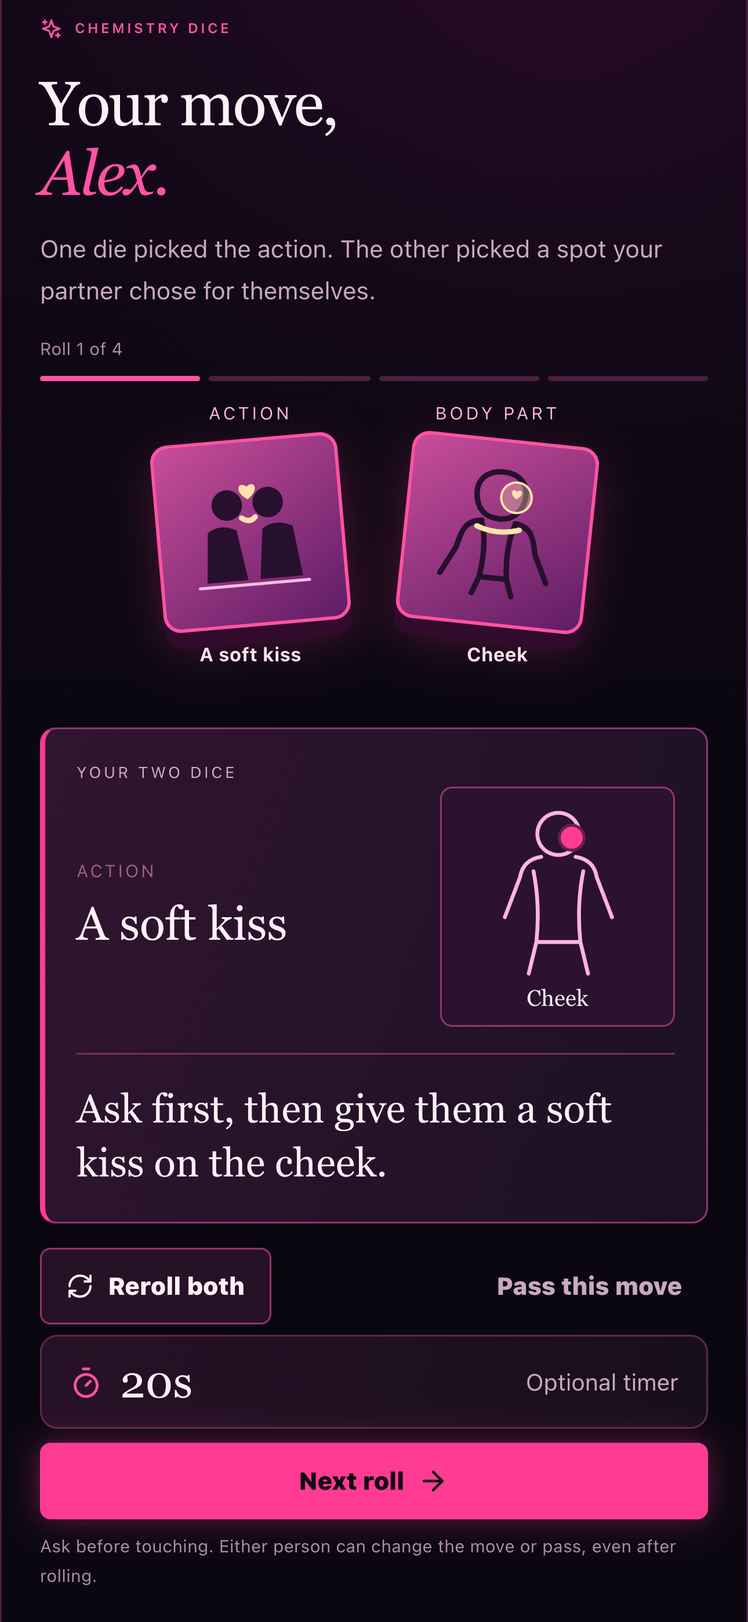
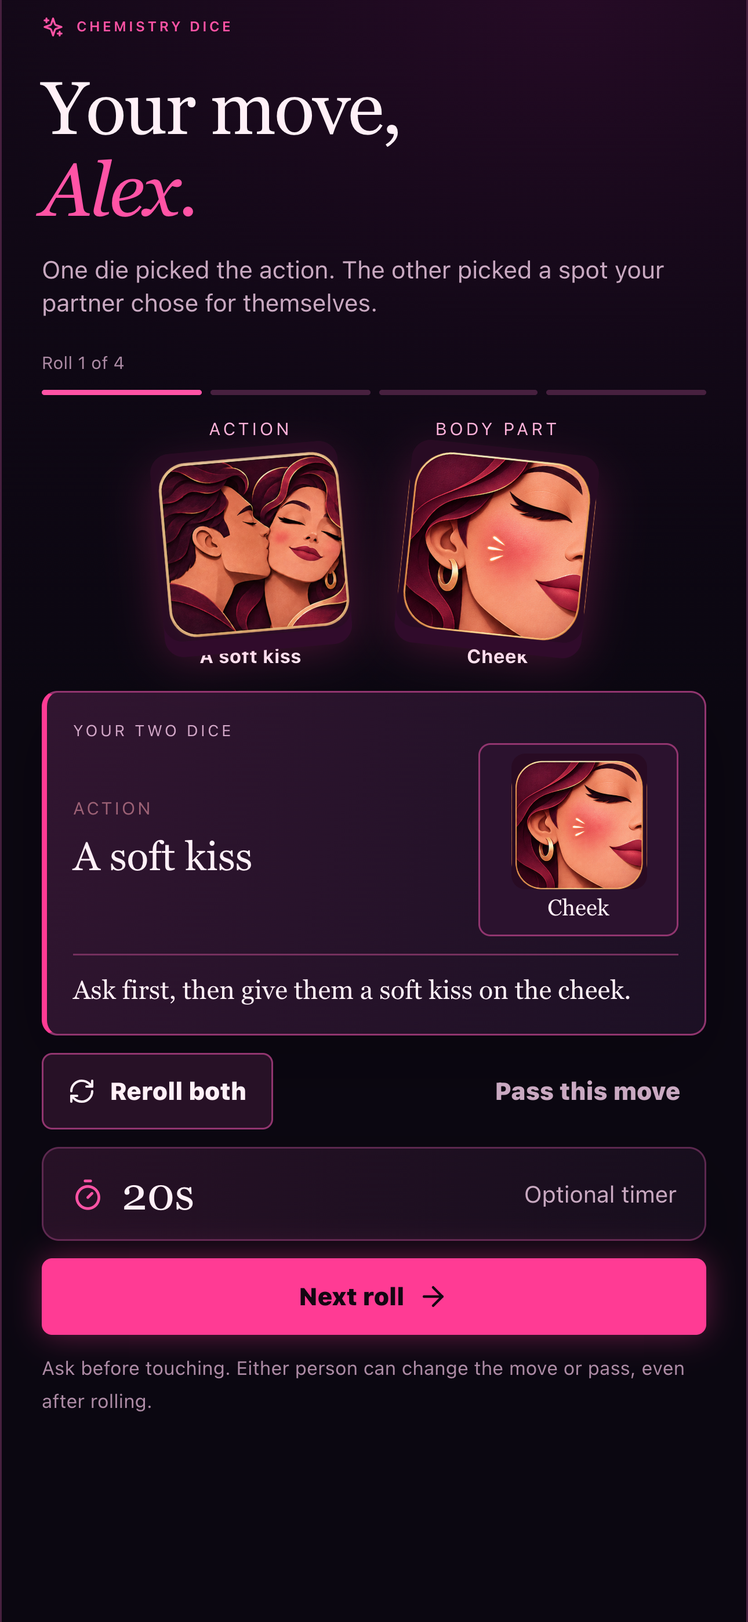
Add Midnight Flirt art to Chemistry Dice

diff --git a/prototypes/date-night/App.tsx b/prototypes/date-night/App.tsx
@@ -55,11 +55,12 @@ function Home({ onChoose }: { onChoose: (mode: Mode) => void }) {
   </div>;
 }
 
-function Setup({ mode, names, vibe, stage, onStart }: { mode: Mode; names: Names; vibe: Vibe; stage: Stage; onStart: (names: Names, vibe: Vibe, stage: Stage) => void }) {
+function Setup({ mode, names, vibe, stage, firstPortraitRole, onStart }: { mode: Mode; names: Names; vibe: Vibe; stage: Stage; firstPortraitRole: 'man' | 'woman'; onStart: (names: Names, vibe: Vibe, stage: Stage, firstPortraitRole: 'man' | 'woman') => void }) {
   const { locale, tr } = useMiniI18n();
   const [draftNames, setDraftNames] = useState<Names>(names);
   const [draftVibe, setDraftVibe] = useState<Vibe>(mode === 'after-hours' ? 'flirty' : vibe);
   const [draftStage, setDraftStage] = useState(stage);
+  const [draftFirstPortraitRole, setDraftFirstPortraitRole] = useState(firstPortraitRole);
   const catalogGame = gameCatalog.find(game => game.mode === mode);
   useScreenFocus(`setup-${mode}`);
   const notes: Record<Mode, [string, string, string]> = {
@@ -79,11 +80,12 @@ function Setup({ mode, names, vibe, stage, onStart }: { mode: Mode; names: Names
       event.preventDefault();
       const clean = draftNames.map((name, i) => name.trim() || `Player ${i + 1}`) as Names;
       if (clean[0].toLowerCase() === clean[1].toLowerCase()) { clean[0] += ' (1)'; clean[1] += ' (2)'; }
-      playMiniVoice(locale, 0, 'mini-start');
-      onStart(clean, draftVibe, draftStage);
+      playMiniVoice(locale, mode === 'heart-dice' && draftFirstPortraitRole === 'woman' ? 1 : 0, 'mini-start');
+      onStart(clean, draftVibe, draftStage, draftFirstPortraitRole);
     }}>
       <h2>{tr('Make yourselves comfortable.')}</h2><p className="muted">{tr('Nicknames welcome. Names are optional.')}</p>
       <div className="names-row">{[0, 1].map(index => <label key={index} htmlFor={`player-${index}`}>{tr(`Player ${index + 1}`)}<input id={`player-${index}`} maxLength={24} autoComplete="off" placeholder={index === 0 ? tr('e.g. Alex') : tr('e.g. Sam')} value={draftNames[index].startsWith('Player ') ? '' : draftNames[index]} onChange={event => setDraftNames(prev => index === 0 ? [event.target.value, prev[1]] : [prev[0], event.target.value])} /></label>)}</div>
+      {mode === 'heart-dice' && <fieldset><legend>{tr('Who is Player 1 in the illustrations?')}</legend><div className="portrait-role-options">{(['man', 'woman'] as const).map(role => <label key={role}><input type="radio" name="first-portrait-role" checked={draftFirstPortraitRole === role} onChange={() => setDraftFirstPortraitRole(role)} /><span>{tr(role === 'man' ? 'Man' : 'Woman')}</span></label>)}</div><p className="form-footnote">{tr('The kiss and body-part pictures follow your choice.')}</p></fieldset>}
       {mode !== 'heart-dice' && <fieldset><legend>{tr('Where are you two right now?')}</legend><div className="stage-options">{(['new', 'together', 'married'] as const).map(value => <label className={`stage-choice ${draftStage === value ? 'selected' : ''}`} key={value}><input type="radio" name="stage" value={value} checked={draftStage === value} onChange={() => setDraftStage(value)} /><span><strong>{tr(stageLabels[value])}</strong><small>{tr(stageNotes[value])}</small></span></label>)}</div></fieldset>}
       {mode !== 'sketch-date' && mode !== 'date-mystery' && <fieldset><legend>{tr('What’s the mood?')}</legend><div className="vibe-options">{(['playful', 'flirty'] as const).map(value => <label className={`vibe-choice ${draftVibe === value ? 'selected' : ''}`} key={value}><input type="radio" name="vibe" value={value} checked={draftVibe === value} onChange={() => setDraftVibe(value)} /><span>{value === 'playful' ? <Sparkles size={18} /> : <Heart size={18} />}<strong>{tr(value === 'playful' ? 'Playful' : 'Flirty')}</strong><small>{tr(value === 'playful' ? 'Easy laughs & good stories' : 'Banter & a little chemistry')}</small></span></label>)}</div></fieldset>}
       <div className="comfort-note"><Heart size={17} /><p>{tr('Pick a mood you both like. You can pass on anything, for any reason.')}</p></div>
@@ -196,6 +198,7 @@ export default function App() {
   const [names, setNames] = useState<Names>(['Player 1', 'Player 2']);
   const [vibe, setVibe] = useState<Vibe>('playful');
   const [stage, setStage] = useState<Stage>('new');
+  const [firstPortraitRole, setFirstPortraitRole] = useState<'man' | 'woman'>('man');
   const [session, setSession] = useState(0);
   const [showExit, setShowExit] = useState(false);
   const exitRef = useRef<HTMLDialogElement>(null);
@@ -206,5 +209,5 @@ export default function App() {
   function leave() { if (ready) setShowExit(true); else home(); }
   function replay(swap = false) { if (swap) setNames(prev => [prev[1], prev[0]]); setSession(prev => prev + 1); }
   useEffect(() => { if (showExit) exitRef.current?.showModal(); else exitRef.current?.close(); }, [showExit]);
-  return <MiniLocaleProvider locale={locale}><div className="app-shell" data-locale={locale} onClickCapture={event => { if (event.target instanceof Element && event.target.closest("button")) void playMiniCue("tap"); }}><a className="skip-link" href="#main">{tr("Skip to game")}</a><header className="site-header"><button className="brand" onClick={leave} aria-label={tr("Date Night Games home")}><span className={activeCatalogGame ? "brand-game-mark" : "brand-mark"}>{activeCatalogGame ? <CoupleGameEmblem mode={activeCatalogGame.mode} className="brand-game-emblem" /> : <Heart size={20} />}</span><span>Couple Flight<small>{tr("DATE NIGHT GAMES")}</small></span></button><div className="header-actions"><AmbientSound copy={{ soundOn: tr("Turn off date-night music"), soundOff: tr("Turn on date-night music") }} className="mini-ambient-toggle" /><label className="locale-control"><span className="sr-only">{tr("Language")}</span><select aria-label={tr("Language")} value={locale} onChange={event => changeLocale(event.target.value as MiniLocale)}><option value="en">EN</option><option value="zh">中文</option><option value="es">ES</option></select></label>{mode ? <button className="exit-link" onClick={leave} aria-label={tr(ready ? "Leave game" : "All games")}><ArrowLeft size={16} /><span>{tr(ready ? 'Leave game' : 'All games')}</span></button> : <a className="exit-link" href={flightBoardUrl} aria-label={tr("Back to Flight Chess")}><ArrowLeft size={16} /><span>{tr("Board")}</span></a>}</div></header>{mode && createPortal(<button type="button" className="mini-quick-back" onClick={leave} aria-label={tr(ready ? "Leave game" : "All games")}><ArrowLeft size={20} /><span>{tr(ready ? "Leave game" : "All games")}</span></button>, document.body)}<main id="main">{!mode ? <Home onChoose={value => { setMode(value); setReady(false); }} /> : !ready ? <Setup mode={mode} names={names} vibe={vibe} stage={stage} onStart={(newNames, newVibe, newStage) => { setNames(newNames); setVibe(newVibe); setStage(newStage); setReady(true); setSession(prev => prev + 1); }} /> : mode === 'first-date' ? <FirstDate key={session} names={names} vibe={vibe} stage={stage} onHome={home} onReplay={() => replay(true)} /> : mode === 'mission' ? <SecretMission key={session} names={names} vibe={vibe} stage={stage} seen={seenMissions.current} onHome={home} onReplay={() => replay()} /> : mode === 'double-yes' ? <DoubleYes key={session} names={names} vibe={vibe} stage={stage} seen={seenIdeas.current} onHome={home} onReplay={() => replay()} /> : mode === 'heart-dice' ? <ChemistryDice key={session} names={names} vibe={vibe} onHome={home} onReplay={() => replay()} /> : mode === 'read-my-mind' ? <ReadMyMind key={session} names={names} vibe={vibe} stage={stage} onHome={home} onReplay={() => replay()} /> : mode === 'wish-auction' ? <WishAuction key={session} names={names} vibe={vibe} stage={stage} onHome={home} onReplay={() => replay()} /> : mode === 'date-mystery' ? <DateMystery key={session} names={names} vibe={vibe} stage={stage} onHome={home} onReplay={() => replay()} /> : mode === 'sketch-date' ? <SketchDate key={session} names={names} stage={stage} onHome={home} onReplay={() => replay()} /> : <AfterHours key={session} names={names} vibe={vibe} stage={stage} onHome={home} onReplay={() => replay()} />}</main><footer className="site-footer"><span><Ticket size={14} /> {tr("A little time, just for you two.")}</span><span>{tr("Go at your own pace.")}</span></footer><dialog ref={exitRef} onCancel={() => setShowExit(false)} onClick={event => { if (event.target === event.currentTarget) setShowExit(false); }}><div className="exit-dialog"><Eyebrow>{tr("Pause for a moment")}</Eyebrow><h2>{tr("Call it a night?")}</h2><p>{tr("This round will be cleared. Your answers aren’t saved.")}</p><div className="action-stack"><Button onClick={home}>{tr("Leave this round")}</Button><Button variant="secondary" onClick={() => setShowExit(false)} autoFocus>{tr("Keep playing")}</Button></div></div></dialog></div></MiniLocaleProvider>;
+  return <MiniLocaleProvider locale={locale}><div className="app-shell" data-locale={locale} onClickCapture={event => { if (event.target instanceof Element && event.target.closest("button")) void playMiniCue("tap"); }}><a className="skip-link" href="#main">{tr("Skip to game")}</a><header className="site-header"><button className="brand" onClick={leave} aria-label={tr("Date Night Games home")}><span className={activeCatalogGame ? "brand-game-mark" : "brand-mark"}>{activeCatalogGame ? <CoupleGameEmblem mode={activeCatalogGame.mode} className="brand-game-emblem" /> : <Heart size={20} />}</span><span>Couple Flight<small>{tr("DATE NIGHT GAMES")}</small></span></button><div className="header-actions"><AmbientSound copy={{ soundOn: tr("Turn off date-night music"), soundOff: tr("Turn on date-night music") }} className="mini-ambient-toggle" /><label className="locale-control"><span className="sr-only">{tr("Language")}</span><select aria-label={tr("Language")} value={locale} onChange={event => changeLocale(event.target.value as MiniLocale)}><option value="en">EN</option><option value="zh">中文</option><option value="es">ES</option></select></label>{mode ? <button className="exit-link" onClick={leave} aria-label={tr(ready ? "Leave game" : "All games")}><ArrowLeft size={16} /><span>{tr(ready ? 'Leave game' : 'All games')}</span></button> : <a className="exit-link" href={flightBoardUrl} aria-label={tr("Back to Flight Chess")}><ArrowLeft size={16} /><span>{tr("Board")}</span></a>}</div></header>{mode && createPortal(<button type="button" className="mini-quick-back" onClick={leave} aria-label={tr(ready ? "Leave game" : "All games")}><ArrowLeft size={20} /><span>{tr(ready ? 'Leave game' : 'All games')}</span></button>, document.body)}<main id="main">{!mode ? <Home onChoose={value => { setMode(value); setReady(false); }} /> : !ready ? <Setup mode={mode} names={names} vibe={vibe} stage={stage} firstPortraitRole={firstPortraitRole} onStart={(newNames, newVibe, newStage, newFirstPortraitRole) => { setNames(newNames); setVibe(newVibe); setStage(newStage); setFirstPortraitRole(newFirstPortraitRole); setReady(true); setSession(prev => prev + 1); }} /> : mode === 'first-date' ? <FirstDate key={session} names={names} vibe={vibe} stage={stage} onHome={home} onReplay={() => replay(true)} /> : mode === 'mission' ? <SecretMission key={session} names={names} vibe={vibe} stage={stage} seen={seenMissions.current} onHome={home} onReplay={() => replay()} /> : mode === 'double-yes' ? <DoubleYes key={session} names={names} vibe={vibe} stage={stage} seen={seenIdeas.current} onHome={home} onReplay={() => replay()} /> : mode === 'heart-dice' ? <ChemistryDice key={session} names={names} vibe={vibe} firstPortraitRole={firstPortraitRole} onHome={home} onReplay={() => replay()} /> : mode === 'read-my-mind' ? <ReadMyMind key={session} names={names} vibe={vibe} stage={stage} onHome={home} onReplay={() => replay()} /> : mode === 'wish-auction' ? <WishAuction key={session} names={names} vibe={vibe} stage={stage} onHome={home} onReplay={() => replay()} /> : mode === 'date-mystery' ? <DateMystery key={session} names={names} vibe={vibe} stage={stage} onHome={home} onReplay={() => replay()} /> : mode === 'sketch-date' ? <SketchDate key={session} names={names} stage={stage} onHome={home} onReplay={() => replay()} /> : <AfterHours key={session} names={names} vibe={vibe} stage={stage} onHome={home} onReplay={() => replay()} />}</main><footer className="site-footer"><span><Ticket size={14} /> {tr("A little time, just for you two.")}</span><span>{tr("Go at your own pace.")}</span></footer><dialog ref={exitRef} onCancel={() => setShowExit(false)} onClick={event => { if (event.target === event.currentTarget) setShowExit(false); }}><div className="exit-dialog"><Eyebrow>{tr("Pause for a moment")}</Eyebrow><h2>{tr("Call it a night?")}</h2><p>{tr("This round will be cleared. Your answers aren’t saved.")}</p><div className="action-stack"><Button onClick={home}>{tr("Leave this round")}</Button><Button variant="secondary" onClick={() => setShowExit(false)} autoFocus>{tr("Keep playing")}</Button></div></div></dialog></div></MiniLocaleProvider>;
 }

diff --git a/prototypes/date-night/chemistry-dice.tsx b/prototypes/date-night/chemistry-dice.tsx
@@ -7,23 +7,23 @@ import { useMiniI18n, type MiniLocale } from './mini-i18n';
 import { playDiceSequence } from '../../src/utils/diceSound';
 import { listenForShake, requestShakePermission } from '../../src/utils/shake';
 import { playMiniVoice } from './mini-audio';
-import { ActionGlyph, BodyGlyph, type DicePart } from './dice-art';
+import { ActionGlyph, BodyGlyph, type DicePart, type PortraitRole } from './dice-art';
 
 type PartId = DicePart;
-type Part = { id: PartId; label: string; x: number; y: number };
+type Part = { id: PartId; label: string };
 type Action = { id: string; title: string; allowed: PartId[]; describe: (part: Part) => string };
 type Pair = { action: Action; part: Part };
 
 const parts: Record<PartId, Part> = {
-  hand: { id: 'hand', label: 'Hand', x: 25, y: 119 },
-  cheek: { id: 'cheek', label: 'Cheek', x: 94, y: 42 },
-  forehead: { id: 'forehead', label: 'Forehead', x: 80, y: 26 },
-  shoulder: { id: 'shoulder', label: 'Shoulder', x: 54, y: 78 },
-  forearm: { id: 'forearm', label: 'Forearm', x: 35, y: 101 },
-  'upper-back': { id: 'upper-back', label: 'Upper back', x: 80, y: 101 },
-  neck: { id: 'neck', label: 'Neck', x: 80, y: 65 },
-  waist: { id: 'waist', label: 'Waist', x: 80, y: 146 },
-  lips: { id: 'lips', label: 'Lips', x: 80, y: 50 },
+  hand: { id: 'hand', label: 'Hand' },
+  cheek: { id: 'cheek', label: 'Cheek' },
+  forehead: { id: 'forehead', label: 'Forehead' },
+  shoulder: { id: 'shoulder', label: 'Shoulder' },
+  forearm: { id: 'forearm', label: 'Forearm' },
+  'upper-back': { id: 'upper-back', label: 'Upper back' },
+  neck: { id: 'neck', label: 'Neck' },
+  waist: { id: 'waist', label: 'Waist' },
+  lips: { id: 'lips', label: 'Lips' },
 };
 
 const partDeck: Record<Vibe, PartId[]> = {
@@ -32,7 +32,7 @@ const partDeck: Record<Vibe, PartId[]> = {
 };
 
 const actions: Action[] = [
-  { id: 'kiss', title: 'A soft kiss', allowed: ['hand', 'cheek', 'forehead', 'shoulder', 'neck', 'lips'], describe: part => `Ask first, then give them a soft kiss on the ${part.label.toLowerCase()}.` },
+  { id: 'kiss', title: 'A soft kiss', allowed: ['cheek'], describe: part => `Ask first, then give them a soft kiss on the ${part.label.toLowerCase()}.` },
   { id: 'trace', title: 'Trace a line', allowed: ['hand', 'cheek', 'forehead', 'shoulder', 'forearm', 'upper-back', 'neck', 'waist', 'lips'], describe: part => part.id === 'lips' ? 'If they want, trace the edge of their lips with one fingertip.' : `If they want, trace a slow line along their ${part.label.toLowerCase()}.` },
   { id: 'brush', title: 'A light brush', allowed: ['hand', 'cheek', 'forehead', 'shoulder', 'forearm', 'upper-back', 'neck', 'waist', 'lips'], describe: part => `If they want, lightly brush your fingertips across their ${part.label.toLowerCase()}.` },
   { id: 'hold', title: 'Stay for a beat', allowed: ['hand', 'cheek', 'shoulder', 'forearm', 'upper-back', 'waist'], describe: part => `If they want, rest your hand on their ${part.label.toLowerCase()} for five seconds.` },
@@ -40,7 +40,7 @@ const actions: Action[] = [
   { id: 'heart', title: 'Draw a heart', allowed: ['hand', 'cheek', 'forehead', 'shoulder', 'forearm', 'upper-back', 'waist'], describe: part => `If they want, draw a tiny heart on their ${part.label.toLowerCase()} with a fingertip.` },
 ];
 
-function Die({ face, label, rolling, revealed, vibe }: { face: number; label: 'ACTION' | 'BODY PART'; rolling: boolean; revealed: boolean; vibe: Vibe }) {
+function Die({ face, label, rolling, revealed, vibe, actorRole, recipientRole }: { face: number; label: 'ACTION' | 'BODY PART'; rolling: boolean; revealed: boolean; vibe: Vibe; actorRole: PortraitRole; recipientRole: PortraitRole }) {
   const { tr } = useMiniI18n();
   const action = actions[face - 1];
   const part = parts[partDeck[vibe][face - 1]];
@@ -48,19 +48,15 @@ function Die({ face, label, rolling, revealed, vibe }: { face: number; label: 'A
   return <div className={`heart-die-wrap ${rolling ? 'is-rolling' : ''}`} data-die-id={revealed ? selected.id : undefined}>
     <span className="heart-die-label">{tr(label)}</span>
     <span className="heart-die" role="img" aria-label={revealed ? `${tr(label)}: ${tr(label === 'ACTION' ? action.title : part.label)}` : tr(label)}>
-      {label === 'ACTION' ? <ActionGlyph action={rolling || revealed ? action.id : null} /> : <BodyGlyph part={rolling || revealed ? part.id : null} />}
+      {label === 'ACTION' ? <ActionGlyph action={rolling || revealed ? action.id : null} actorRole={actorRole} /> : <BodyGlyph part={rolling || revealed ? part.id : null} recipientRole={recipientRole} />}
     </span>
     {revealed && <strong className="heart-die-caption">{tr(label === 'ACTION' ? action.title : part.label)}</strong>}
   </div>;
 }
 
-function BodyMap({ part }: { part: Part }) {
+function BodyMap({ part, recipientRole }: { part: Part; recipientRole: PortraitRole }) {
   const { tr, fmt } = useMiniI18n();
-  return <div className="body-map"><svg viewBox="0 0 160 190" role="img" aria-label={fmt('Selected body part: {part}', { part: tr(part.label) })}>
-    <circle cx="80" cy="38" r="22" />
-    <path d="M62 62 Q43 65 40 83 L24 125 M98 62 Q117 65 120 83 L136 125 M54 77 Q61 112 57 151 L103 151 Q99 112 106 77 M57 151 L49 184 M103 151 L111 184" />
-    <circle className="body-map-marker" cx={part.x} cy={part.y} r="13" />
-  </svg><strong>{tr(part.label)}</strong></div>;
+  return <div className="body-map" role="img" aria-label={fmt('Selected body part: {part}', { part: tr(part.label) })}><BodyGlyph part={part.id} recipientRole={recipientRole} /><strong>{tr(part.label)}</strong></div>;
 }
 
 function describeMove(locale: MiniLocale, action: Action, part: Part) {
@@ -87,8 +83,8 @@ function describeMove(locale: MiniLocale, action: Action, part: Part) {
 type Phase = 'pick-a' | 'pick-b' | 'roll' | 'rolling' | 'play' | 'choose' | 'end';
 type ShakeState = 'off' | 'checking' | 'ready' | 'denied' | 'unavailable';
 
-export function ChemistryDice({ names, vibe, onHome, onReplay }: {
-  names: Names; vibe: Vibe; onHome: () => void; onReplay: () => void;
+export function ChemistryDice({ names, vibe, firstPortraitRole, onHome, onReplay }: {
+  names: Names; vibe: Vibe; firstPortraitRole: PortraitRole; onHome: () => void; onReplay: () => void;
 }) {
   const { locale, tr, fmt, displayName } = useMiniI18n();
   const [phase, setPhase] = useState<Phase>('pick-a');
@@ -107,6 +103,8 @@ export function ChemistryDice({ names, vibe, onHome, onReplay }: {
   const timeoutRef = useRef<number | null>(null);
   const rollRef = useRef<() => void>(() => undefined);
   const recipient = (round + 1) % 2;
+  const actorRole: PortraitRole = round % 2 === 0 ? firstPortraitRole : firstPortraitRole === 'man' ? 'woman' : 'man';
+  const recipientRole: PortraitRole = actorRole === 'man' ? 'woman' : 'man';
   useScreenFocus(`chemistry-${phase}-${round}`);
 
   useEffect(() => () => {
@@ -141,7 +139,7 @@ export function ChemistryDice({ names, vibe, onHome, onReplay }: {
 
   function roll(isReroll = false) {
     void playDiceSequence();
-    playMiniVoice(locale, round % 2, 'mini-roll');
+    playMiniVoice(locale, actorRole === 'man' ? 0 : 1, 'mini-roll');
     setPhase('rolling');
     intervalRef.current = window.setInterval(() => setFaces([1 + Math.floor(Math.random() * 6), 1 + Math.floor(Math.random() * 6)]), 70);
     timeoutRef.current = window.setTimeout(() => {
@@ -175,7 +173,8 @@ export function ChemistryDice({ names, vibe, onHome, onReplay }: {
 
   if (phase === 'pick-a' || phase === 'pick-b') {
     const owner = phase === 'pick-a' ? 0 : 1;
-    return <Handoff key={phase} name={names[owner]} voicePlayer={owner} title="Choose your yeses." label="Only you see your comfort choices">
+    const ownerRole = owner === 0 ? firstPortraitRole : firstPortraitRole === 'man' ? 'woman' : 'man';
+    return <Handoff key={phase} name={names[owner]} voicePlayer={ownerRole === 'man' ? 0 : 1} title="Choose your yeses." label="Only you see your comfort choices">
       <p className="lede">{tr("Choose spots on your own body you would be comfortable letting your partner touch tonight.")}</p>
       <div className="body-picks">{partDeck[vibe].map(id => <button key={id} className={picks[owner].includes(id) ? 'selected' : ''} aria-pressed={picks[owner].includes(id)} onClick={() => togglePart(owner, id)}>{tr(parts[id].label)}<Heart size={15} /></button>)}</div>
       <p className="form-footnote">{tr("On their turn, your partner rolls only from your choices. You can still change your mind or pass on any move.")}</p>
@@ -202,9 +201,9 @@ export function ChemistryDice({ names, vibe, onHome, onReplay }: {
     <h1 tabIndex={-1}>{phase === 'play' ? <>{tr("Your move,")}<br /><em>{displayName(names[round % 2])}.</em></> : <>{tr("Roll for a")}<br /><em>{tr("little spark.")}</em></>}</h1>
     <p className="lede">{phase === 'play' ? tr('One die picked the action. The other picked a spot your partner chose for themselves.') : fmt('{name} leads this round. Roll for an action and a spot {partner} chose.', { name: displayName(names[round % 2]), partner: displayName(names[recipient]) })}</p>
     <Progress current={round + 1} total={4} label="Roll" />
-    <div className="heart-dice-stage"><Die face={faces[0]} label="ACTION" rolling={phase === 'rolling'} revealed={phase === 'play'} vibe={vibe} /><Die face={faces[1]} label="BODY PART" rolling={phase === 'rolling'} revealed={phase === 'play'} vibe={vibe} /></div>
+    <div className="heart-dice-stage"><Die face={faces[0]} label="ACTION" rolling={phase === 'rolling'} revealed={phase === 'play'} vibe={vibe} actorRole={actorRole} recipientRole={recipientRole} /><Die face={faces[1]} label="BODY PART" rolling={phase === 'rolling'} revealed={phase === 'play'} vibe={vibe} actorRole={actorRole} recipientRole={recipientRole} /></div>
     {phase === 'play' && pair ? <div aria-live="polite">
-      <div className="paper-card mini-paper chemistry-result"><span className="card-label">{tr("YOUR TWO DICE")}</span><div className="chemistry-pair"><div><small>{tr("ACTION")}</small><strong>{tr(pair.action.title)}</strong></div><BodyMap part={pair.part} /></div><p>{describeMove(locale, pair.action, pair.part)}</p></div>
+      <div className="paper-card mini-paper chemistry-result"><span className="card-label">{tr("YOUR TWO DICE")}</span><div className="chemistry-pair"><div><small>{tr("ACTION")}</small><strong>{tr(pair.action.title)}</strong></div><BodyMap part={pair.part} recipientRole={recipientRole} /></div><p>{describeMove(locale, pair.action, pair.part)}</p></div>
       <div className="mini-actions"><Button variant="secondary" disabled={rerolled} onClick={() => roll(true)}><RefreshCw size={16} /> {tr("Reroll both")}</Button><Button variant="quiet" onClick={() => advance(false)}> {tr("Pass this move")}</Button></div>
       <button className="heart-timer" onClick={() => setTimerRunning(previous => !previous)} disabled={seconds === 0} aria-label={tr(timerRunning ? 'Pause twenty-second timer' : 'Start twenty-second timer')}><Timer size={19} /><span>{seconds}s</span><small>{tr(seconds === 0 ? 'Time is up' : timerRunning ? 'Pause timer' : 'Optional timer')}</small></button>
       <Button className="full-width" onClick={() => advance(true)}>{tr(round === 3 ? 'Finish our round' : 'Next roll')} <ArrowRight size={18} /></Button>

diff --git a/prototypes/date-night/styles.css b/prototypes/date-night/styles.css
@@ -460,17 +460,11 @@ dialog::backdrop { background: #09070cd9; }
 .shake-prompt span { color: var(--cfc-text-muted); font-size: 12px; }
 .heart-die-wrap { display: grid; justify-items: center; align-content: start; gap: 9px; width: 120px; }
 .heart-die-label { color: var(--cfc-rose-soft); font-size: 10px; letter-spacing: 1.6px; }
-.heart-die { display: grid; place-items: center; width: 108px; height: 108px; padding: 10px; border: 2px solid #d99a9e; border-radius: 21px; background: linear-gradient(145deg, #fff5e9, #e7c9bb); box-shadow: 0 12px 0 #6d374d, 0 18px 30px #0008; transform: rotate(-5deg); }
+.heart-die { display: grid; place-items: center; width: 108px; height: 108px; border: 0; border-radius: 11px; background: #280b23; box-shadow: 0 12px 0 #6d374d, 0 18px 30px #0008; transform: rotate(-5deg); overflow: hidden; }
 .heart-die-wrap:nth-child(2) .heart-die { transform: rotate(6deg); }
-.heart-die svg { display: block; width: 100%; height: 100%; }
+.dice-art-sprite { display: block; width: 100%; height: 100%; border-radius: inherit; background-repeat: no-repeat; background-color: #280b23; }
+.dice-art-sealed { color: #f4bcd4; font: italic 56px/1 Georgia, serif; }
 .heart-die-caption { min-height: 2.5em; max-width: 120px; color: var(--cfc-text); font-size: 11px; line-height: 1.25; text-align: center; overflow-wrap: anywhere; }
-.dice-art-ground { fill: none; stroke: #f6bce0; stroke-width: 2; stroke-linecap: round; }
-.dice-art-person { fill: #27102d; }
-.dice-art-arm { fill: none; stroke: #27102d; stroke-width: 5; stroke-linecap: round; stroke-linejoin: round; }
-.dice-art-gesture { fill: none; stroke: #ffe2ab; stroke-width: 3.5; stroke-linecap: round; stroke-linejoin: round; }
-.dice-art-heart, .dice-art-spark { fill: #ffe2ab; }
-.dice-art-figure { fill: none; stroke: #27102d; stroke-width: 3.6; stroke-linecap: round; stroke-linejoin: round; }
-.dice-art-glow { fill: #ffe2ab55; stroke: #ffe2ab; stroke-width: 1.5; }
 .heart-die-wrap.is-rolling .heart-die { animation: tumble .22s linear infinite alternate; }
 @keyframes tumble { to { transform: translateY(-9px) rotate(13deg) scale(1.06); } }
 .heart-move-card { min-height: 160px; }
@@ -482,13 +476,16 @@ dialog::backdrop { background: #09070cd9; }
 .body-picks button.selected { border-color: rgba(248, 211, 138, .5); background: var(--cfc-select-active); }
 .body-picks button.selected svg { color: var(--cfc-amber); opacity: 1; fill: currentColor; }
 .body-picks button:active { transform: scale(.975); }
+.portrait-role-options { display: flex; gap: 10px; margin-top: 10px; }
+.portrait-role-options label { display: flex; align-items: center; gap: 9px; min-height: 42px; padding: 8px 15px; border: 1px solid var(--cfc-border); border-radius: 8px; background: var(--cfc-bg-elevated); color: var(--cfc-text); }
+.portrait-role-options label:has(input:checked) { border-color: var(--cfc-rose); box-shadow: inset 3px 0 var(--cfc-rose); }
+.portrait-role-options input { accent-color: var(--cfc-rose); }
 .chemistry-pair { display: grid; grid-template-columns: minmax(0, 1fr) 135px; align-items: center; gap: 14px; }
 .chemistry-pair > div:first-child small { display: block; color: #9c6175; font-size: 10px; letter-spacing: 1.3px; margin-bottom: 9px; }
 .chemistry-pair > div:first-child strong { display: block; font: 27px/1.2 Georgia, serif; }
 .chemistry-result > p { clear: both; border-top: 1px solid #d5b9ae; padding-top: 16px; font: 17px/1.55 -apple-system, BlinkMacSystemFont, "Segoe UI", sans-serif; }
 .body-map { display: grid; justify-items: center; gap: 3px; border: 1px solid #d5b9ae; border-radius: 12px; background: #fff5ea; padding: 5px 8px 7px; }
-.body-map svg { display: block; width: 88px; height: 105px; fill: none; stroke: #6c4856; stroke-width: 4; stroke-linecap: round; stroke-linejoin: round; }
-.body-map .body-map-marker { fill: #ec82a0; stroke: #9a4b67; stroke-width: 3; }
+.body-map .dice-art-sprite { width: 88px; height: 88px; border-radius: 8px; }
 .body-map strong { font: 13px/1.25 Georgia, serif; text-align: center; }
 .heart-timer { display: flex; align-items: center; gap: 10px; width: 100%; margin: 4px 0 17px; padding: 11px 16px; border: 1px solid var(--cfc-border); border-radius: var(--cfc-radius-sm); background: var(--cfc-bg-elevated); color: var(--cfc-text); text-align: left; }
 .heart-timer > svg { color: var(--cfc-rose); }
@@ -571,13 +568,13 @@ dialog::backdrop { background: #09070cd9; }
   .answer-reveal strong { font-size: 17px; }
   .heart-dice-stage { gap: 14px; }
   .heart-die-wrap { width: 100px; }
-  .heart-die { width: 88px; height: 88px; padding: 7px; }
+  .heart-die { width: 88px; height: 88px; }
   .sketch-gallery button { grid-template-columns: 96px minmax(0, 1fr); }
   .sketch-gallery img { width: 96px; }
   .sketch-gallery span { font-size: 15px; }
   .chemistry-pair { grid-template-columns: minmax(0, 1fr) 105px; gap: 8px; }
   .chemistry-pair > div:first-child strong { font-size: 22px; }
-  .body-map svg { width: 75px; height: 91px; }
+  .body-map .dice-art-sprite { width: 75px; height: 75px; }
 }
 
 /* Small matchbook vignettes make each prompt's setting legible at a glance. */
@@ -767,10 +764,8 @@ body { background: radial-gradient(circle at 76% 0%, #4d0f43 0, transparent 34%)
 .card-label, .idea-number, .mission-nudge { color: #d3a8c8; }
 .card-label svg, .paper-link, .secret-goal svg { color: #ff53a5; }
 .secret-goal, .paper-rule, .after-hours-callback, .chemistry-result > p { border-color: #75305e; }
-.heart-die { border-color: #ff53a5; border-radius: 10px; background: linear-gradient(145deg, #c84d9a, #5f1d65); box-shadow: 0 9px 0 #300b2b, 0 10px 26px #ff3b9440; }
+.heart-die { box-shadow: 0 9px 0 #300b2b, 0 10px 26px #ff3b9440; }
 .body-map { border-color: #91356f; border-radius: 7px; background: #2b122e; }
-.body-map svg { stroke: #ffb5dc; }
-.body-map .body-map-marker { fill: #ff3b94; stroke: #63204f; }
 .body-map strong { color: #fff0f7; }
 .mystery-hint { background: #3b1b48; color: #e5cbff; }
 .prompt-art { --art-paper: #2a102d; --art-ink: #ffb5dc; --art-rose: #ff53a5; --art-blush: #813968; --art-sage: #b88aff; --art-gold: #d8b5ff; --art-border: #91356f; filter: drop-shadow(0 0 7px #ff3b9433); }

diff --git a/prototypes/date-night/dice-art.tsx b/prototypes/date-night/dice-art.tsx
@@ -1,39 +1,51 @@
+import actionSheet from './assets/chemistry-actions-velvet.png';
+import femaleParts from './assets/chemistry-parts-female-velvet.png';
+import maleParts from './assets/chemistry-parts-male-velvet.png';
+
 export type DicePart = 'hand' | 'cheek' | 'forehead' | 'shoulder' | 'forearm' | 'upper-back' | 'neck' | 'waist' | 'lips';
+export type PortraitRole = 'man' | 'woman';
 
-function TinyHeart({ x, y, scale = 1 }: { x: number; y: number; scale?: number }) {
-  return <path className="dice-art-heart" transform={`translate(${x} ${y}) scale(${scale})`} d="M0 8 C-15 -2 -7 -12 0 -5 C7 -12 15 -2 0 8Z" />;
-}
-
-export function ActionGlyph({ action }: { action: string | null }) {
-  return <svg viewBox="0 0 96 96" aria-hidden="true" focusable="false">
-    <path className="dice-art-ground" d="M12 82 H84" />
-    <g className="dice-art-person">
-      <circle cx={action === 'kiss' ? 34 : 30} cy="29" r="10" />
-      <path d="M20 46 Q29 40 39 46 L44 79 H17Z" />
-      <circle cx={action === 'kiss' ? 61 : 66} cy="29" r="10" />
-      <path d="M56 46 Q65 40 76 46 L80 79 H52Z" />
-    </g>
-    {action === null && <><path className="dice-art-gesture" d="M35 61 Q48 48 61 61" /><TinyHeart x={48} y={44} scale={0.66} /></>}
-    {action === 'kiss' && <><path className="dice-art-gesture" d="M43 38 Q48 42 52 38" /><TinyHeart x={48} y={21} scale={0.64} /></>}
-    {action === 'trace' && <><path className="dice-art-arm" d="M35 52 Q44 48 52 55" /><path className="dice-art-gesture" d="M55 49 Q72 54 63 69" strokeDasharray="2 4" /><circle className="dice-art-spark" cx="64" cy="68" r="3" /></>}
-    {action === 'brush' && <><path className="dice-art-arm" d="M35 55 Q47 44 59 48" /><path className="dice-art-gesture" d="M58 42 Q72 35 81 42 M61 49 Q77 43 84 50" /><circle className="dice-art-spark" cx="74" cy="36" r="2.5" /></>}
-    {action === 'hold' && <><path className="dice-art-arm" d="M36 56 Q43 62 48 63 Q54 62 60 56" /><TinyHeart x={48} y={58} scale={0.48} /></>}
-    {action === 'massage' && <><path className="dice-art-arm" d="M34 52 Q45 42 57 52 M38 57 Q48 49 61 56" /><path className="dice-art-gesture" d="M55 40 L58 35 M62 41 L67 37 M68 46 L74 44" /></>}
-    {action === 'heart' && <><path className="dice-art-arm" d="M35 58 Q44 48 50 50" /><TinyHeart x={63} y={47} scale={0.9} /><path className="dice-art-gesture" d="M48 48 Q52 39 56 38" strokeDasharray="2 4" /></>}
-  </svg>;
-}
-
-const markerByPart: Record<DicePart, [number, number]> = {
-  hand: [13, 70], cheek: [58, 24], forehead: [48, 14], shoulder: [67, 43], forearm: [25, 59],
-  'upper-back': [53, 54], neck: [48, 36], waist: [59, 72], lips: [54, 29],
+const actionCells: Record<string, number> = {
+  trace: 2,
+  brush: 3,
+  hold: 4,
+  massage: 5,
+  heart: 6,
 };
 
-export function BodyGlyph({ part }: { part: DicePart | null }) {
-  const marker = part ? markerByPart[part] : null;
-  return <svg viewBox="0 0 96 96" aria-hidden="true" focusable="false">
-    <path className="dice-art-figure" d="M48 8 C36 8 31 16 32 24 C33 34 39 39 48 39 C57 39 63 33 64 24 C65 16 60 8 48 8Z M37 41 C26 42 24 50 22 60 L13 78 M59 41 C70 42 72 50 74 60 L83 78 M37 42 Q42 56 39 78 L57 78 Q54 56 59 42 M39 78 L35 89 M57 78 L61 89" />
-    <path className="dice-art-gesture" d="M34 45 Q48 50 62 45" />
-    {marker && <><circle className="dice-art-glow" cx={marker[0]} cy={marker[1]} r="10" /><TinyHeart x={marker[0]} y={marker[1] - 2} scale={0.39} /></>}
-    {!marker && <TinyHeart x={48} y={61} scale={0.6} />}
-  </svg>;
+const partCells: Record<DicePart, number> = {
+  hand: 0,
+  cheek: 1,
+  forehead: 2,
+  shoulder: 3,
+  forearm: 4,
+  'upper-back': 5,
+  neck: 6,
+  waist: 7,
+  lips: 8,
+};
+
+function Sprite({ image, columns, rows, cell, kind }: { image: string; columns: number; rows: number; cell: number; kind: string }) {
+  const column = cell % columns;
+  const row = Math.floor(cell / columns);
+  return <span
+    aria-hidden="true"
+    className={`dice-art-sprite dice-art-${kind}`}
+    data-art-cell={cell}
+    style={{
+      backgroundImage: `url(${image})`,
+      backgroundSize: `${columns * 100}% ${rows * 100}%`,
+      backgroundPosition: `${column * 100 / (columns - 1)}% ${row * 100 / (rows - 1)}%`,
+    }}
+  />;
+}
+
+export function ActionGlyph({ action, actorRole }: { action: string | null; actorRole: PortraitRole }) {
+  const cell = action === null ? 7 : action === 'kiss' ? actorRole === 'man' ? 0 : 1 : actionCells[action];
+  return <Sprite image={actionSheet} columns={4} rows={2} cell={cell ?? 7} kind="action" />;
+}
+
+export function BodyGlyph({ part, recipientRole }: { part: DicePart | null; recipientRole: PortraitRole }) {
+  if (!part) return <span className="dice-art-sealed" aria-hidden="true">?</span>;
+  return <Sprite image={recipientRole === 'man' ? maleParts : femaleParts} columns={3} rows={3} cell={partCells[part]} kind="part" />;
 }

diff --git a/prototypes/date-night/mini-translations.ts b/prototypes/date-night/mini-translations.ts
@@ -42,6 +42,10 @@ export const miniTranslations: Record<string, readonly [string, string]> = {
   'Nicknames welcome. Names are optional.': ['可以用昵称，也可以不填名字。', 'Pueden usar apodos. Los nombres son opcionales.'],
   'Player 1': ['玩家 1', 'Persona 1'],
   'Player 2': ['玩家 2', 'Persona 2'],
+  'Who is Player 1 in the illustrations?': ['插画里的玩家 1 是谁？', '¿Quién es la Persona 1 en las ilustraciones?'],
+  'Man': ['男方', 'Él'],
+  'Woman': ['女方', 'Ella'],
+  'The kiss and body-part pictures follow your choice.': ['亲吻和部位配图会跟着这个选择变化。', 'Las ilustraciones de besos y zonas del cuerpo seguirán esta elección.'],
   'e.g. Alex': ['比如：小艾', 'p. ej., Alex'],
   'e.g. Sam': ['比如：阿森', 'p. ej., Sam'],
   'Where are you two right now?': ['你们在一起多久啦？', '¿En qué etapa están?'],

diff --git a/docs/APP_STORE_1_1_1_US_DISCOVERY_METADATA.md b/docs/APP_STORE_1_1_1_US_DISCOVERY_METADATA.md
@@ -1,6 +1,6 @@
 # App Store 1.1.1 — US English discovery update
 
-Prepared for the **free** public release using the 1.1.1 (15) TestFlight build after iPhone verification. The four Midnight Flirt mini games and Flight Chess must be present in the build selected for App Review. The mini games use one phone; only Flight Chess has an optional room-code mode for two devices. Do not add mainland China to storefront availability.
+Prepared for the **free** public release using the 1.1.1 (16) TestFlight build after iPhone verification. The four Midnight Flirt mini games and Flight Chess must be present in the build selected for App Review. The mini games use one phone; only Flight Chess has an optional room-code mode for two devices. Do not add mainland China to storefront availability.
 
 ## Copy for App Store Connect
 
@@ -70,7 +70,7 @@ Upload these to the **US English** localization in this order. Keep existing sup
 
 ## Release gate and evidence
 
-- The local iOS project is set to marketing version 1.1.1, build 15. Build 15 adds an always reachable mobile back button and iPhone safe-area spacing to the mini games. Build 14 validated the dice changes; the visual replacement for Chemistry Dice is under design review and is not part of build 15.
+- The local iOS project is set to marketing version 1.1.1, build 16. Chemistry Dice now uses the selected Midnight Flirt illustrations: a soft cheek kiss mark when the man kisses the woman, a lip print when the woman kisses the man, and a matching close-up of the receiving partner's selected body part. The setup lets the couple choose whether Player 1 is the man or woman in the illustrations. Build 15 added an always reachable mobile back button and iPhone safe-area spacing.
 - Before submission, compare the screenshots with the final TestFlight build on an iPhone and confirm the four-game catalog, one dice result, different body part choices, direct shake control in both dice games, Flight Chess landing animation and sound, language switch, and room-code flow. Confirm the chosen Chemistry Dice art matches its result text before submitting for App Review.
 - On 2026-11-20, App Store Connect API access recovered after the account holder submitted the tax form. The 1.1.1 draft now has the US English metadata and three complete screenshots; its availability remains USA only.
 
